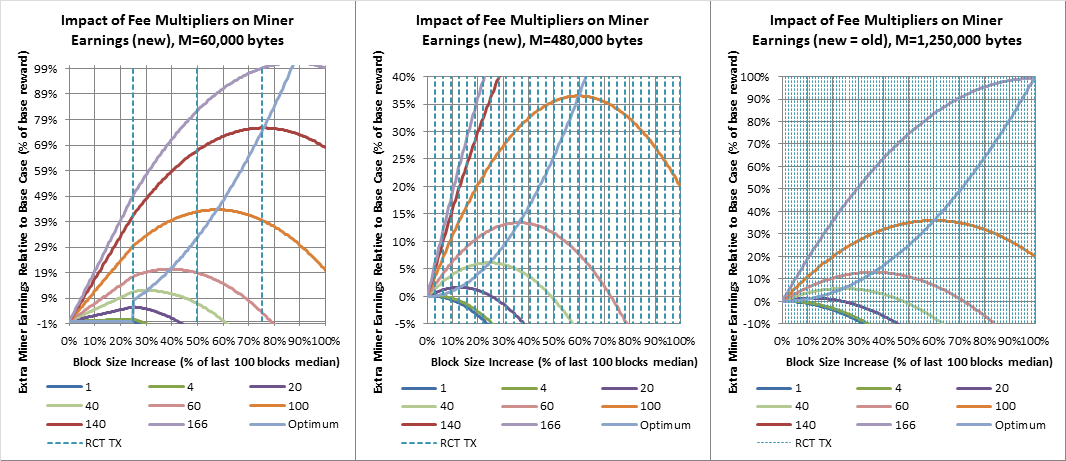
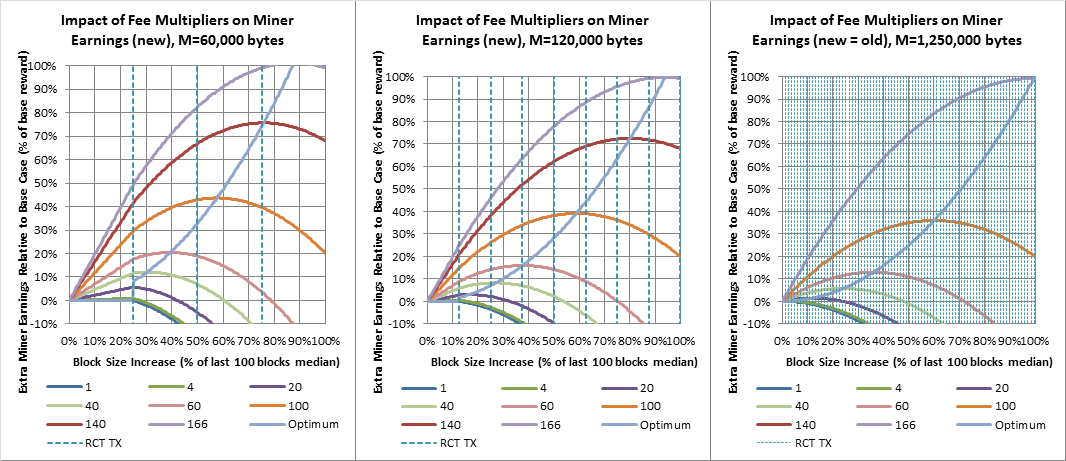
general update
most of it should be in place now; almost done :)

diff --git a/Monero Dynamic Block Size and Dynamic Minimum Fee/Monero Dynamic Block Size and Dynamic Minimum Fee - DRAFT.md b/Monero Dynamic Block Size and Dynamic Minimum Fee/Monero Dynamic Block Size and Dynamic Minimum Fee - DRAFT.md
@@ -285,6 +285,10 @@ To summarize, we have:
 
 `P_n_2 = P_c` for `W_T <= W_0`.
 
+Below we can see direct comparison of the current and proposed penalty formula.
+
+![Figure 3.2-1](https://github.com/JollyMort/monero-research/blob/master/Monero%20Dynamic%20Block%20Size%20and%20Dynamic%20Minimum%20Fee/Images/Fig3.2-1.png?raw=true)
+
 With the penalty formula defined, it now remains to again find expressions for neutral and optimum fees.
 
 Solving `E_A = 0` for `F` gives the neutral fee expression:
@@ -302,6 +306,40 @@ Undefined for `W < W_T and W_0 < W_T`,
 `F_o_2 = (R / M) * (k_2 * (3 - 2 * W) + k * (2 * W - 3) * W_0 + 1)`, for `W_T <= W and W_0 < W_T`, and
 
 `F_o_2 = F_o_c` for `W_T <= W_0`.
+
+Below we can see direct comparison of the current and proposed neutral and optimum fees.
+
+![Figure 3.2-2](https://github.com/JollyMort/monero-research/blob/master/Monero%20Dynamic%20Block%20Size%20and%20Dynamic%20Minimum%20Fee/Images/Fig3.2-2.png?raw=true)
+
+Again, we will analyze impact of fee multipliers, as seen below.
+
+![Figure 3.2-3](https://github.com/JollyMort/monero-research/blob/master/Monero%20Dynamic%20Block%20Size%20and%20Dynamic%20Minimum%20Fee/Images/Fig3.2-3.png?raw=true)
+
+We see how initially, only the smallest step is avalible. As soon as the median would grow, faster growth would be enabled as long as users are willing to offer higher multipliers. Also, notice how this option looks similar to the current one, except in the zone up to the single TX size.
+
+Next, below we show the minimum cost of a single transaction.
+
+![Figure 3.2-4](https://github.com/JollyMort/monero-research/blob/master/Monero%20Dynamic%20Block%20Size%20and%20Dynamic%20Minimum%20Fee/Images/Fig3.2-4.png?raw=true)
+
+In this scenario, we can see how the cost of a single transaction remains the same as with the current min. fee formula, but now it is sufficient to enable a single typical TX to be added on top of the median. As such, the initial proposition is achieved.
+
+Furthermore, we will analyze the minimum cost of a full block.
+
+![Figure 3.2-5](https://github.com/JollyMort/monero-research/blob/master/Monero%20Dynamic%20Block%20Size%20and%20Dynamic%20Minimum%20Fee/Images/Fig3.2-5.png?raw=true)
+
+Normally, this cost is distributed among individual users. If a single actor would want to artificialy keep the block size at some median, he'd have to take this running cost alone.
+
+We can define a median increase cycle as consisting of 51 consecutive blocks with some increase. This is the minimum number of blocks to affect the median as it is calculated over the last 100 blocks. We will calculate the cost of one cycle with a minimum feasible increase, as presented below.
+
+![Figure 3.2-6](https://github.com/JollyMort/monero-research/blob/master/Monero%20Dynamic%20Block%20Size%20and%20Dynamic%20Minimum%20Fee/Images/Fig3.2-6.png?raw=true)
+
+The area below those charts will give us the cumulative cost to increase the block size from minimum free block size to some median, as seen below.
+
+![Figure 3.2-7](https://github.com/JollyMort/monero-research/blob/master/Monero%20Dynamic%20Block%20Size%20and%20Dynamic%20Minimum%20Fee/Images/Fig3.2-7.png?raw=true)
+
+We can see how with the new penalty & fee formulas, the price of growth remains nearly the same as non-RCT would be with the current formulas and at the slowest rate, and it converges to original formulas for RCT if the growth should be more rapid. It's important to note that any growth can be "reset" by a single cycle of 51 small blocks, after which some attacker would have his previous efforts to increase the block size erased and have to bear the cost all over again.
+
+This proposal would make the cost of increase to a given block size linear, same as the original formulas in ideal case.
 
 ### 4. Impact of Modifying The Constants
 
